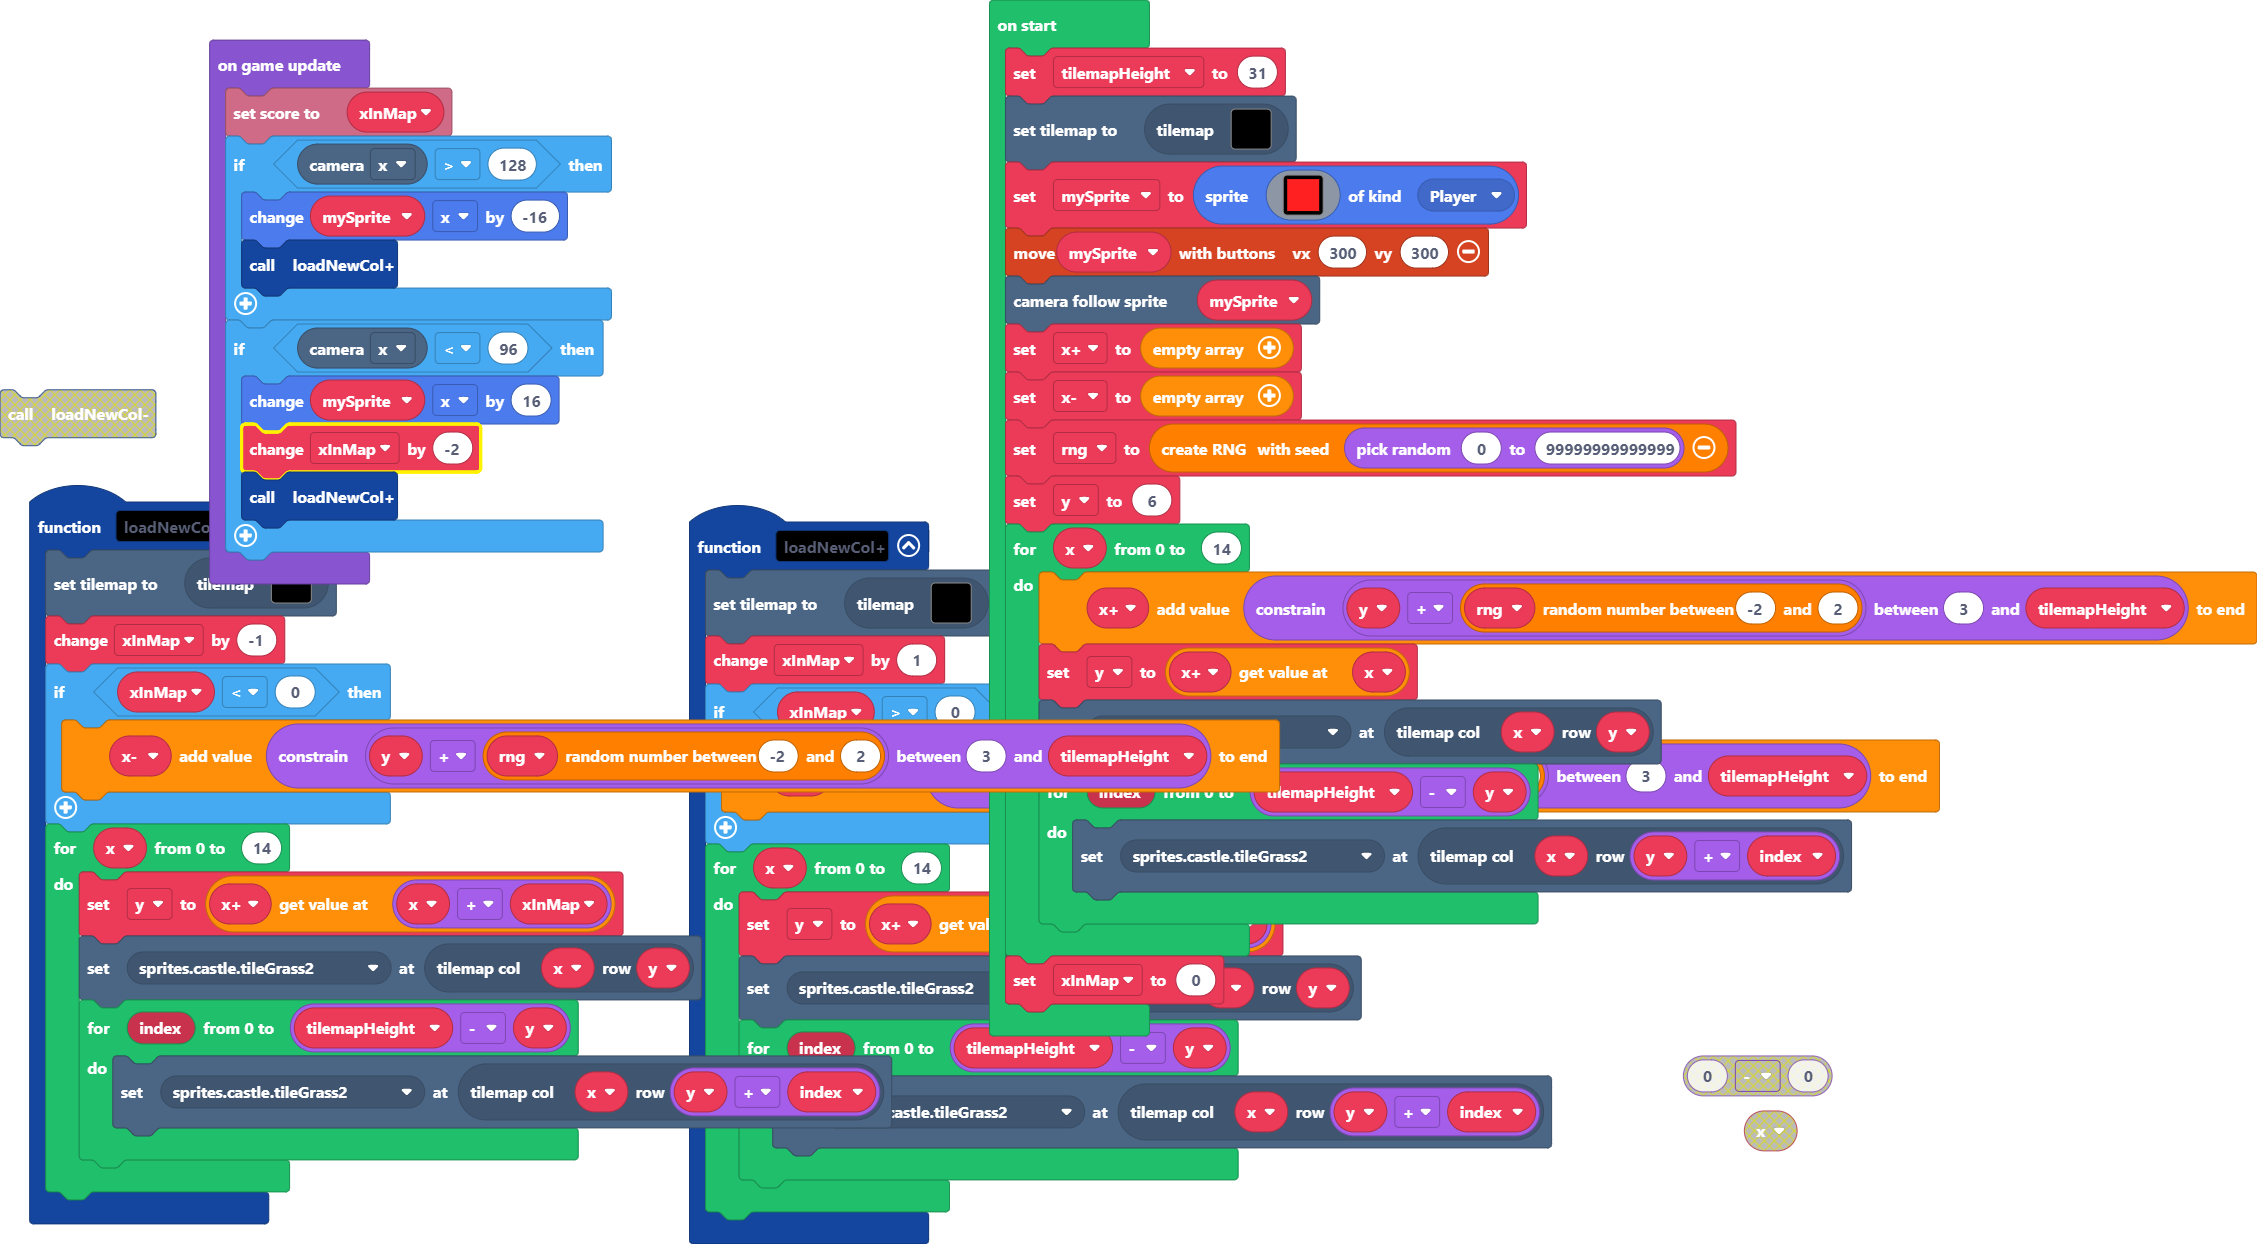
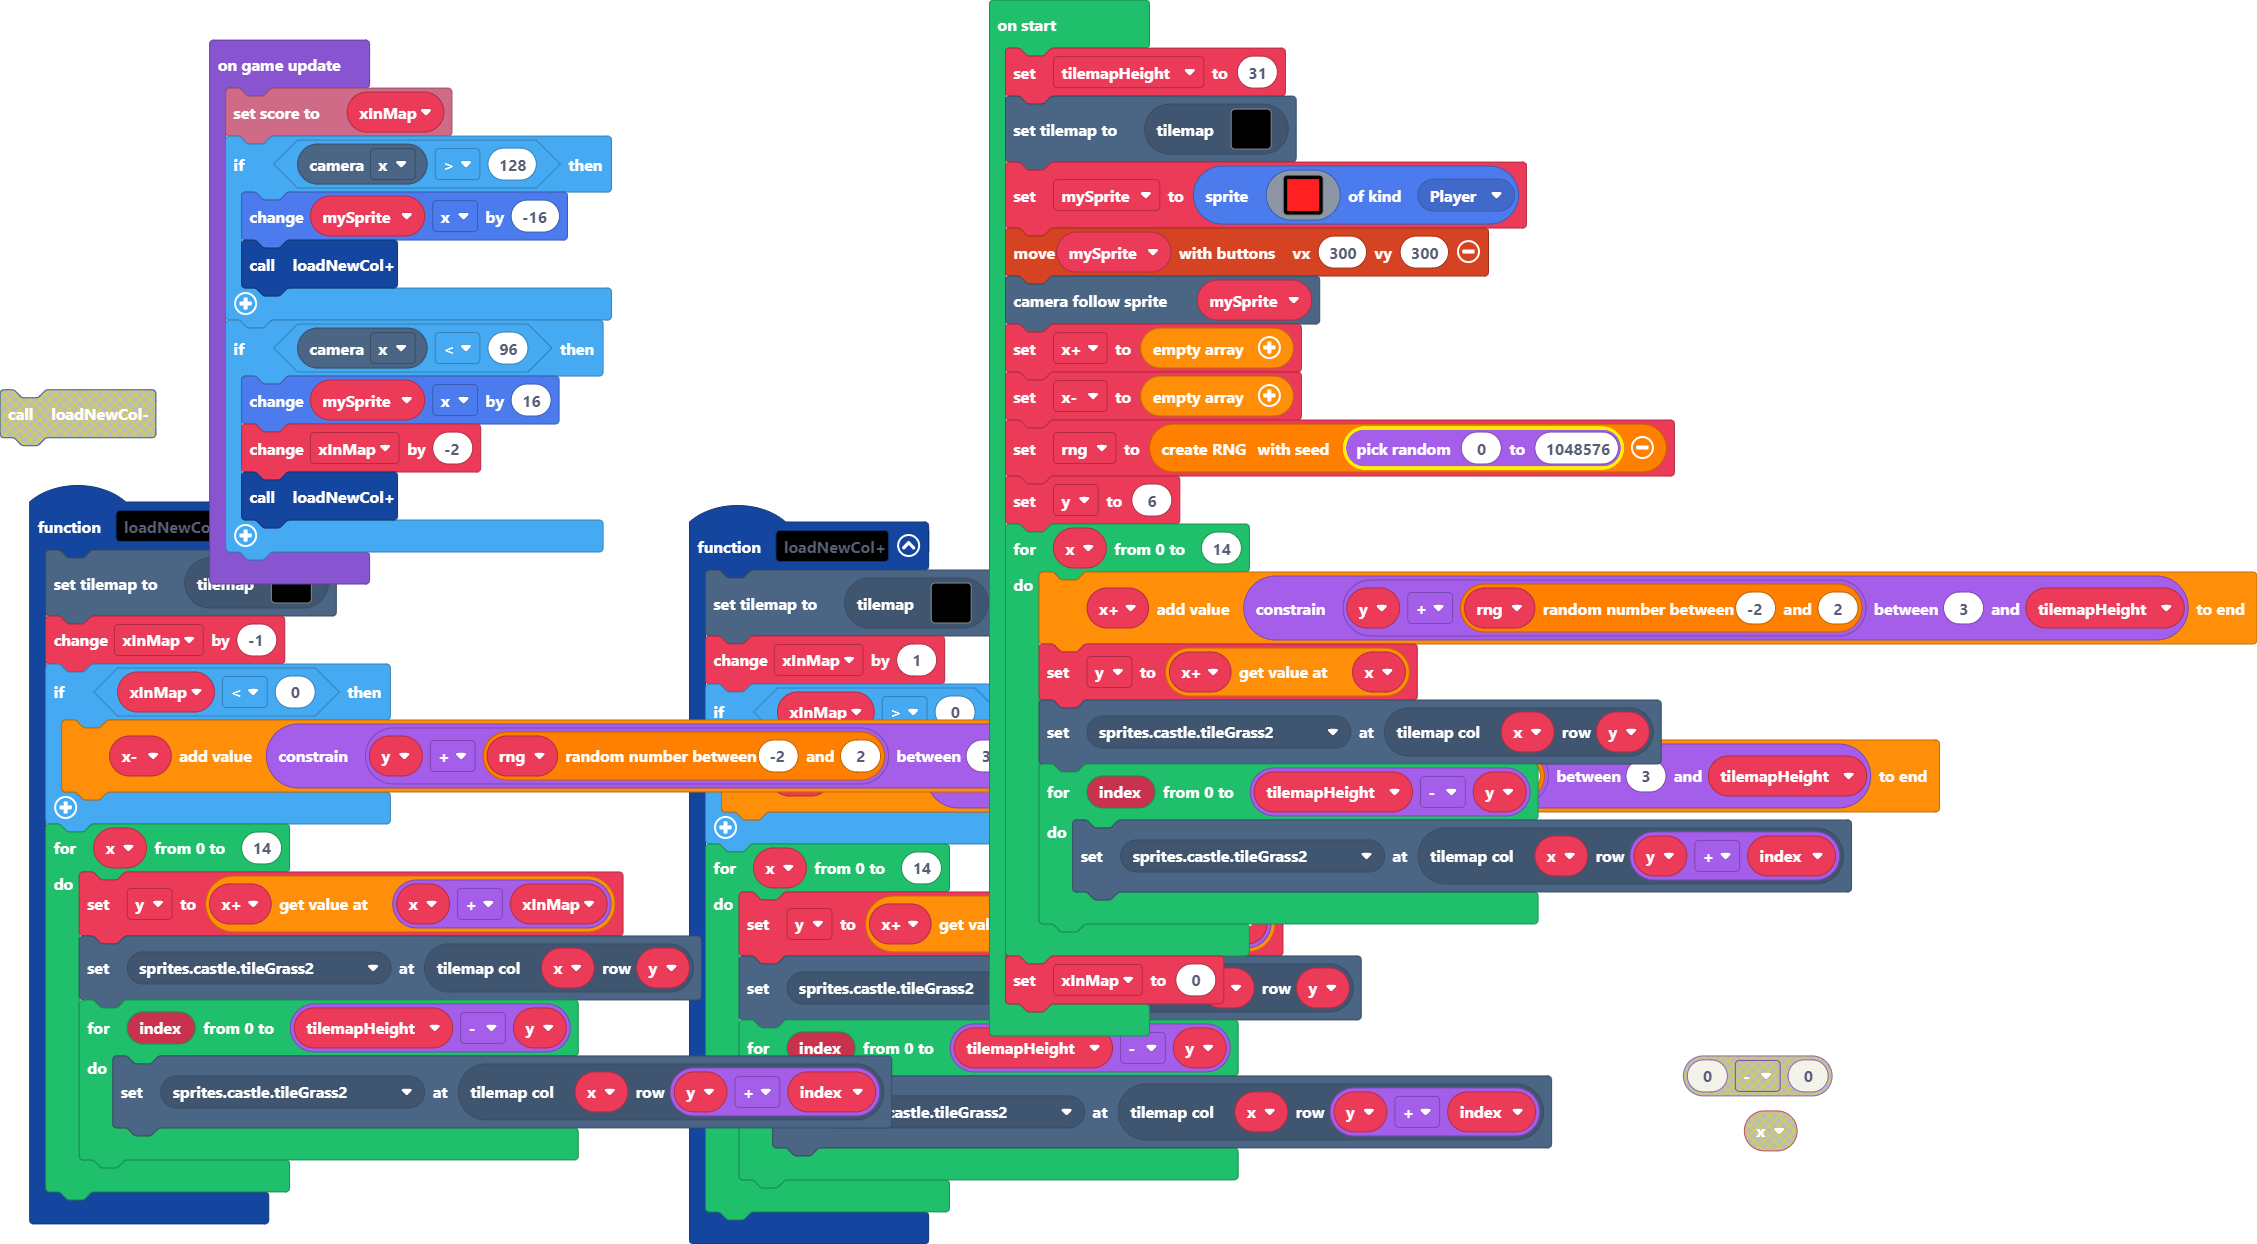
Update main.blocks, main.ts

Changed region(s): [[0.5893, 0.336, 0.7754, 0.3971], [0.4342, 0.5804, 0.5893, 0.6415], [0.093, 0.336, 0.2171, 0.3971]]

diff --git a/main.ts b/main.ts
@@ -56,7 +56,7 @@ controller.moveSprite(mySprite, 300, 300)
 scene.cameraFollowSprite(mySprite)
 x = []
 x2 = []
-rng = Random.createRNG(randint(0, 99999999999999))
+rng = Random.createRNG(randint(0, 1048576))
 y = 6
 for (let x3 = 0; x3 <= 14; x3++) {
     x.push(Math.constrain(y + rng.randomRange(-2, 2), 3, tilemapHeight))
